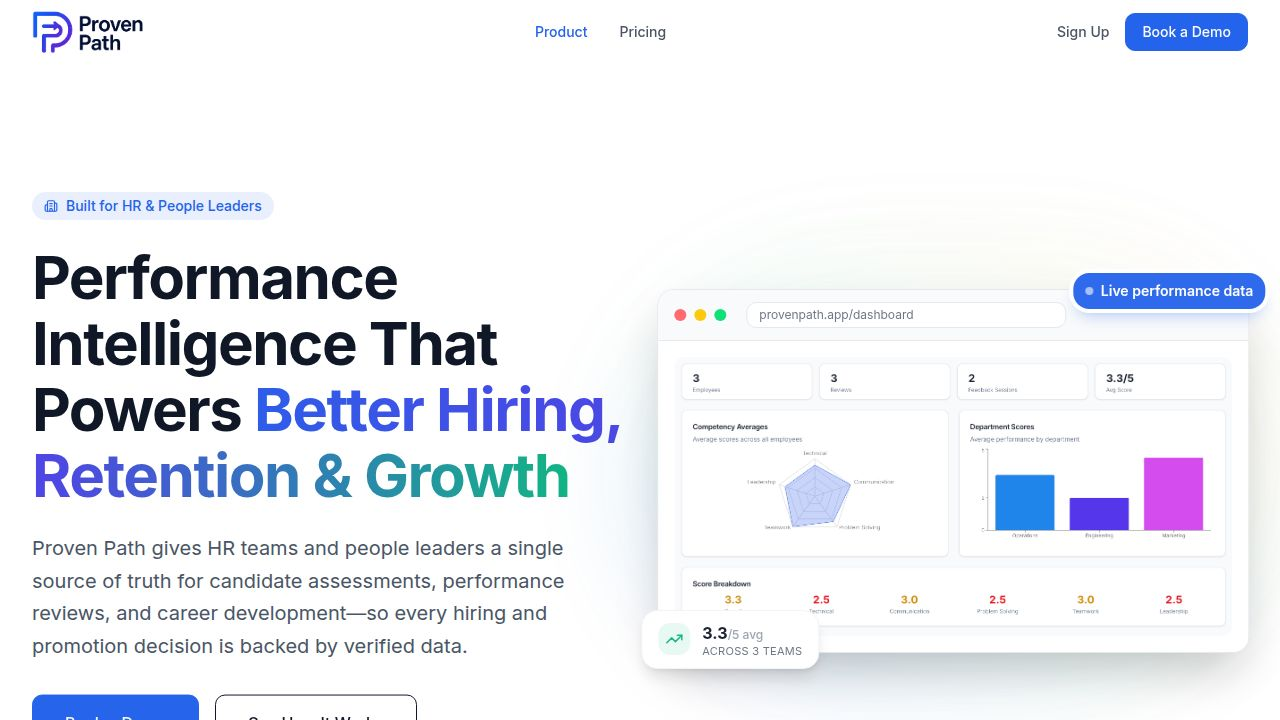
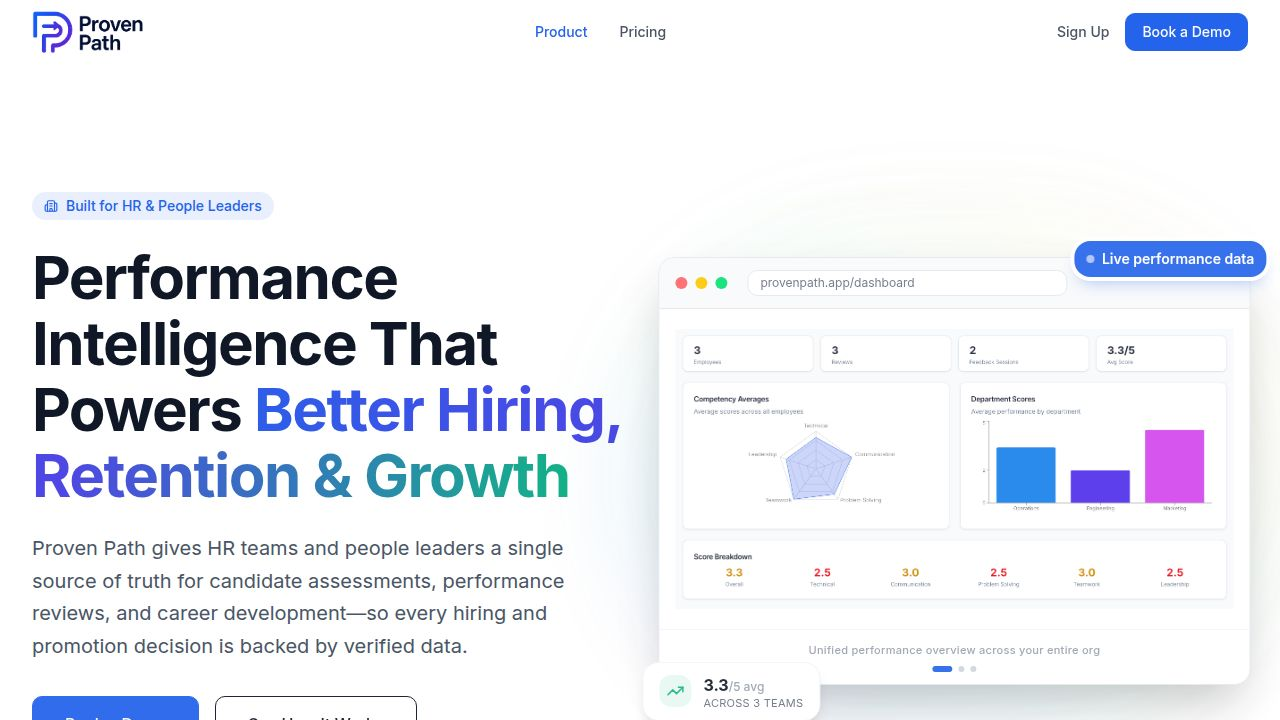
Adjust carousel image display to fill container width
Modify the FeatureCarousel component to accept an imageClass prop, allowing specific instances to use object-cover for full-width image display.

Replit-Commit-Author: Agent
Replit-Commit-Session-Id: 946b3171-ad6e-40de-9f26-a6783f40c1f3
Replit-Commit-Checkpoint-Type: full_checkpoint
Replit-Commit-Event-Id: 1378aed0-06bc-455b-9945-68d241b7585f
Replit-Commit-Screenshot-Url: https://storage.googleapis.com/screenshot-production-us-central1/220e4db0-58b9-458c-9428-0f4942d241bb/946b3171-ad6e-40de-9f26-a6783f40c1f3/2ft9ZDh
Replit-Helium-Checkpoint-Created: true

diff --git a/artifacts/marketing-site/src/pages/Home.tsx b/artifacts/marketing-site/src/pages/Home.tsx
@@ -81,7 +81,7 @@ const SLIDE_DURATION = 3800;
 
 type Slide = { url: string; src: string; alt: string; badge: string; caption: string };
 
-function FeatureCarousel({ slides, className }: { slides: Slide[]; className?: string }) {
+function FeatureCarousel({ slides, className, imageClass }: { slides: Slide[]; className?: string; imageClass?: string }) {
   const [idx, setIdx] = useState(0);
   const [paused, setPaused] = useState(false);
   const base = import.meta.env.BASE_URL;
@@ -125,7 +125,7 @@ function FeatureCarousel({ slides, className }: { slides: Slide[]; className?: s
             key={slide.src}
             src={`${base}${slide.src}`}
             alt={slide.alt}
-            className="absolute inset-0 w-full h-full object-contain p-4"
+            className={imageClass ?? "absolute inset-0 w-full h-full object-contain p-4"}
             initial={{ opacity: 0, x: 24 }}
             animate={{ opacity: 1, x: 0 }}
             exit={{ opacity: 0, x: -24 }}
@@ -598,6 +598,7 @@ export default function Home() {
                 <FeatureCarousel
                   slides={HOW_IT_WORKS_SLIDES}
                   className="relative bg-white rounded-2xl shadow-xl ring-1 ring-gray-200 overflow-hidden"
+                  imageClass="absolute inset-0 w-full h-full object-cover"
                 />
 
                 <div className="hidden sm:flex absolute -top-3 -right-3 items-center gap-2 bg-primary text-white text-xs font-semibold px-3 py-2 rounded-full shadow-lg">
